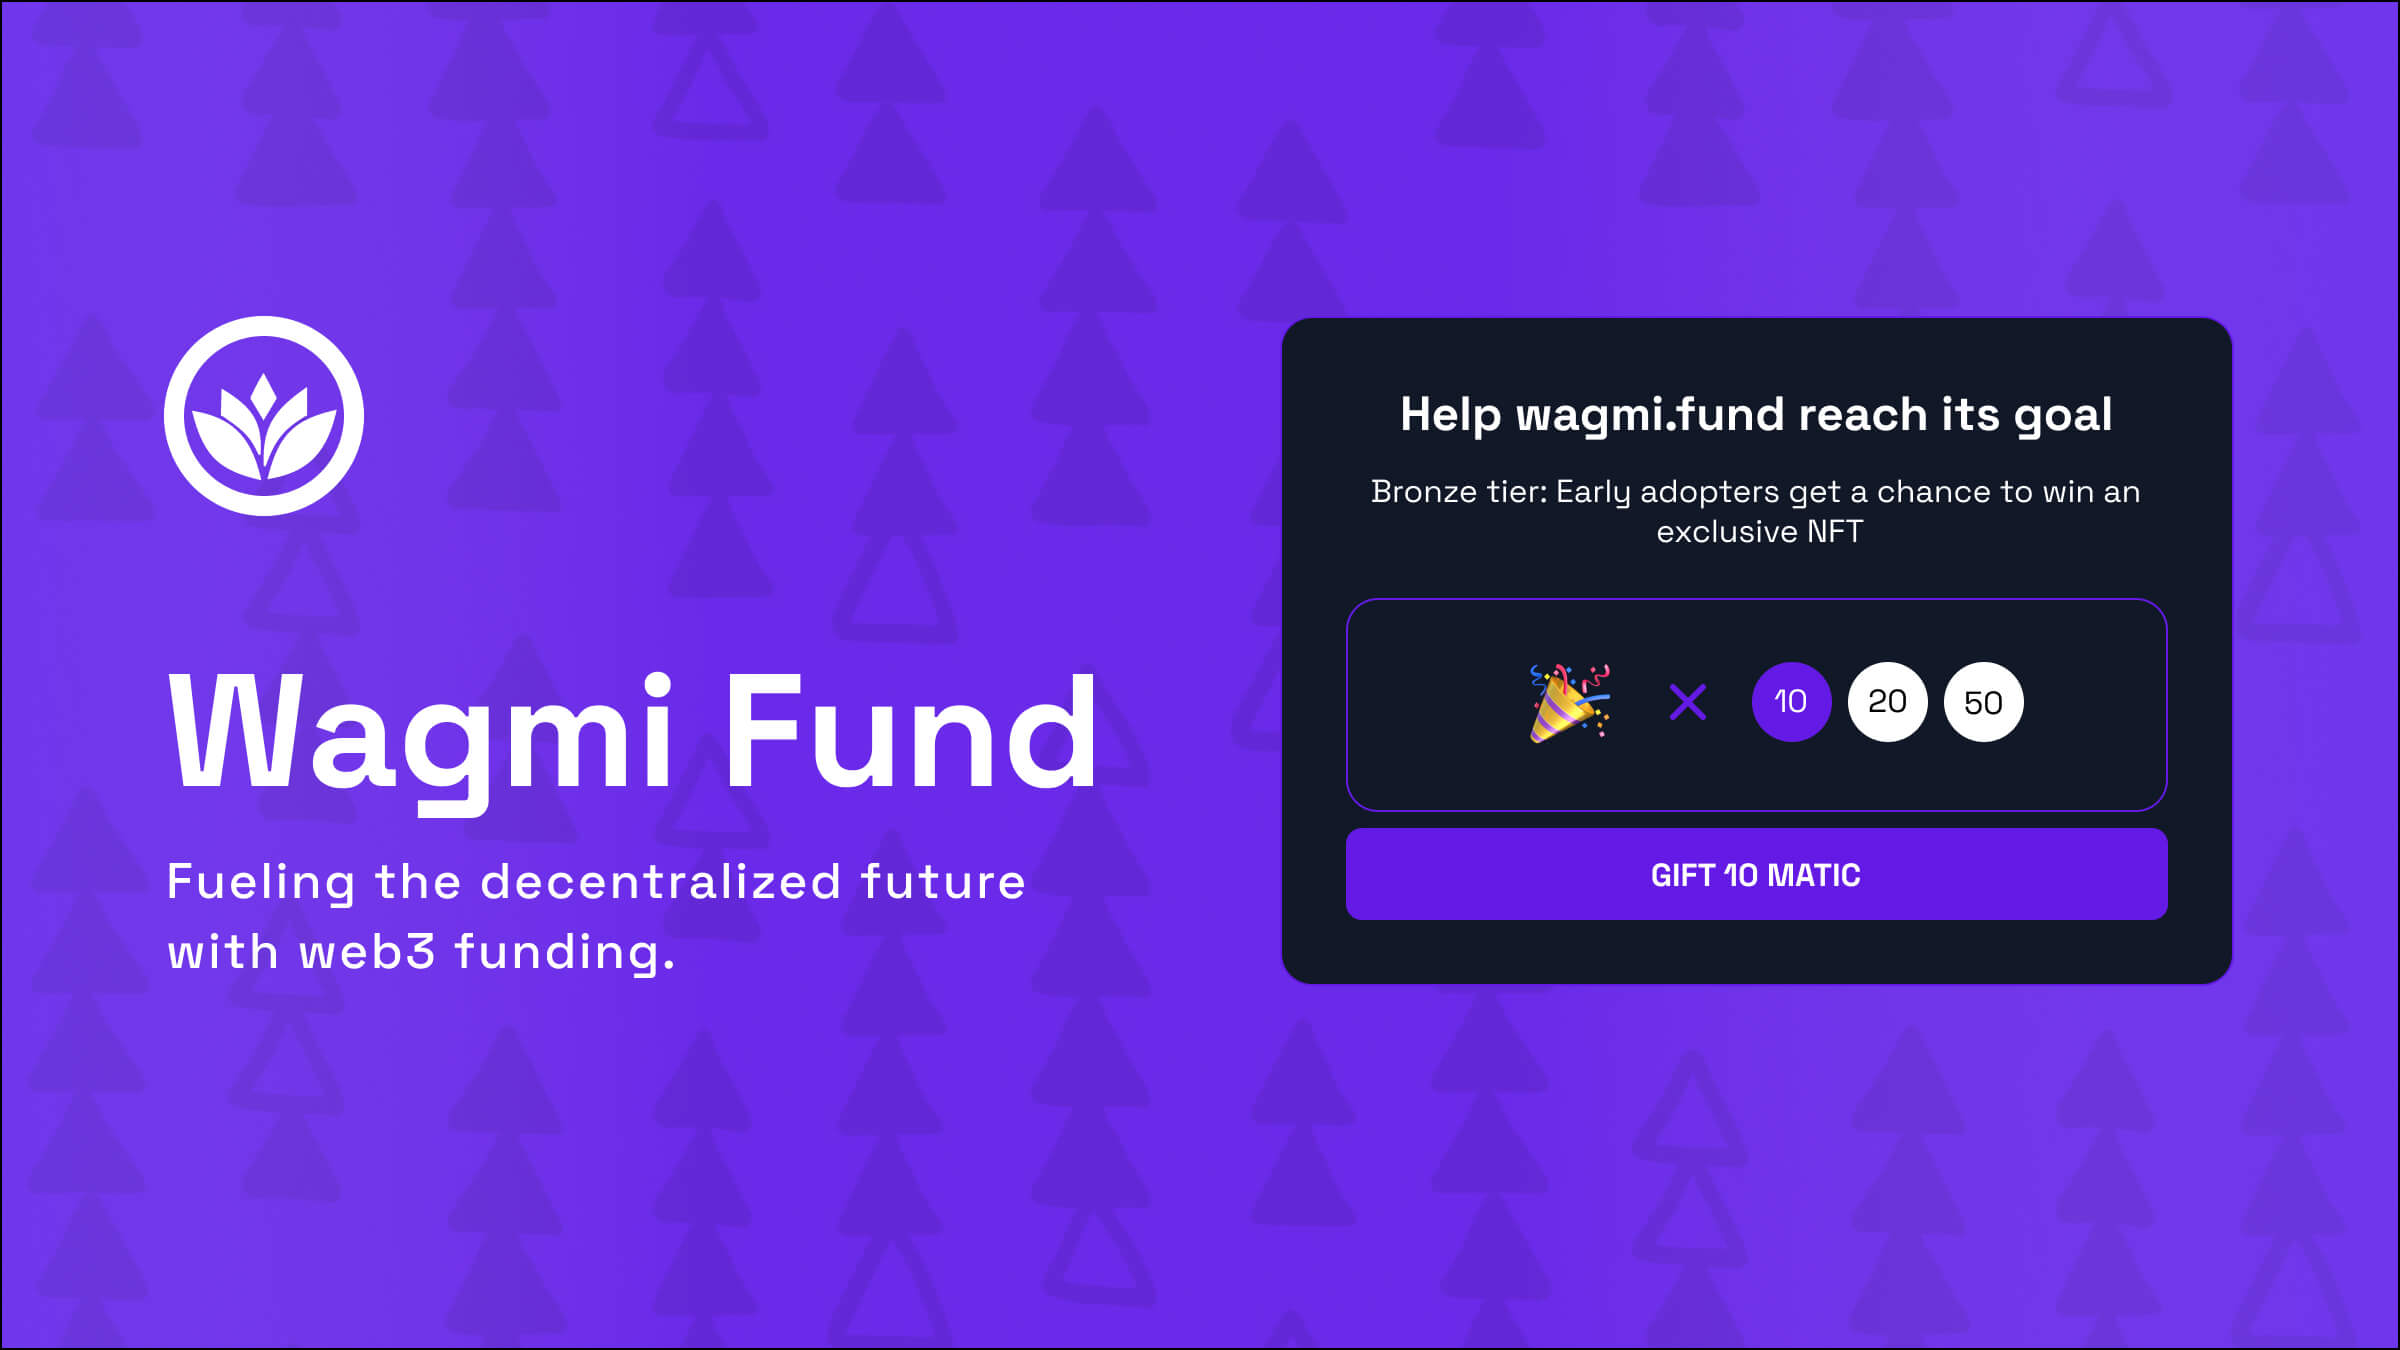
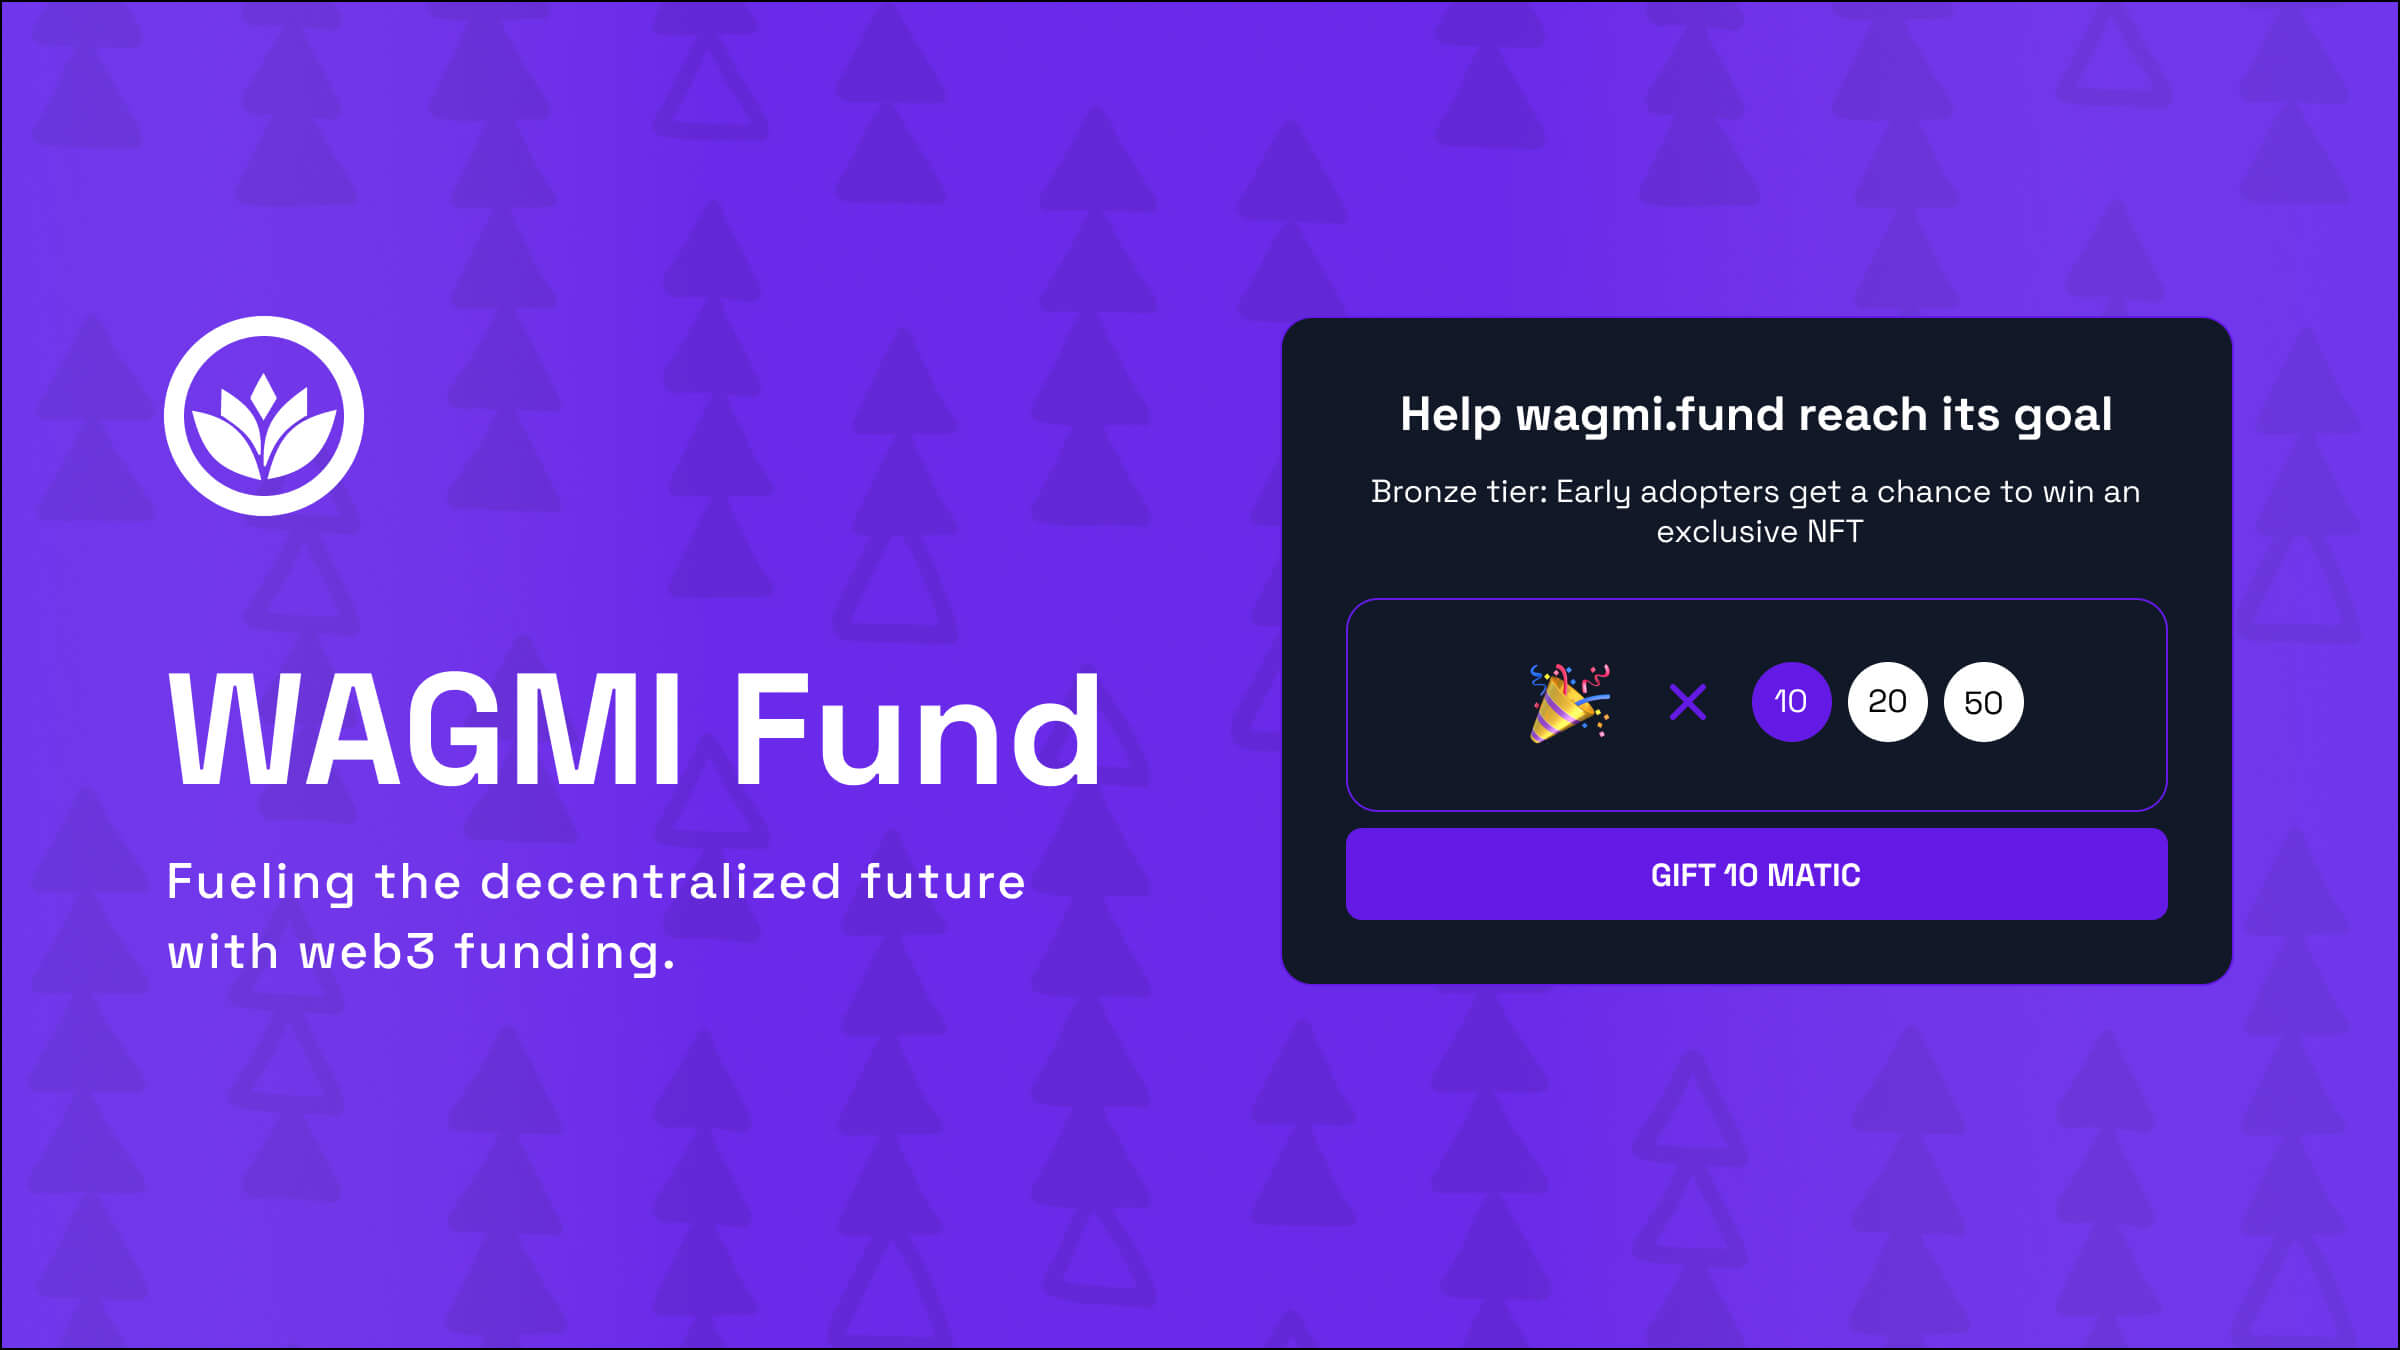
chore: change meta tags and try pre commit

Changed region(s): [[0.0938, 0.4978, 0.4688, 0.6222]]

diff --git a/pages/_document.tsx b/pages/_document.tsx
@@ -4,28 +4,28 @@ import { Analytics } from "@vercel/analytics/react";
 export default function Document() {
   return (
     <Html>
-      <title>wagmifund</title>
-      <meta name="title" content="wagmifund" />
+      <title>WAGMI Fund</title>
+      <meta name="title" content="WAGMI Fund" />
       <meta
         name="description"
-        content="Decentralized crowd funding platform, built on Lens Protocol 🌿"
+        content="Fueling the decentralized future with web3 funding 💰"
       />
 
       <meta property="og:type" content="website" />
       <meta property="og:url" content="https://testnet.wagmi.fund/" />
-      <meta property="og:title" content="wagmifund" />
+      <meta property="og:title" content="WAGMI Fund" />
       <meta
         property="og:description"
-        content="Decentralized crowd funding platform, built on Lens Protocol 🌿"
+        content="Fueling the decentralized future with web3 funding 💰"
       />
       <meta property="og:image" content="/og.jpeg" />
 
       <meta property="twitter:card" content="summary_large_image" />
       <meta property="twitter:url" content="https://testnet.wagmi.fund/" />
-      <meta property="twitter:title" content="wagmifund" />
+      <meta property="twitter:title" content="WAGMI Fund" />
       <meta
         property="twitter:description"
-        content="Decentralized crowd funding platform, built on Lens Protocol 🌿"
+        content="Fueling the decentralized future with web3 funding 💰"
       />
       <meta property="twitter:image" content="/og.jpeg" />
       <link rel="preconnect" href="https://fonts.googleapis.com" />

diff --git a/src/components/MetaTags/index.tsx b/src/components/MetaTags/index.tsx
@@ -9,7 +9,7 @@ interface Props {
 }
 
 const MetaTags: FC<Props> = ({
-  title = "Wagmi Fund",
+  title = "WAGMI Fund",
   description = DESCRIPTION,
 }) => {
   return (
@@ -39,7 +39,7 @@ const MetaTags: FC<Props> = ({
       <meta property="twitter:image:src" content="/og.jpeg" />
       <meta property="twitter:image:width" content="400" />
       <meta property="twitter:image:height" content="400" />
-      <meta property="twitter:creator" content="wagmifund" />
+      <meta property="twitter:creator" content="WAGMI Fund" />
     </Head>
   );
 };

diff --git a/src/utils/constants.ts b/src/utils/constants.ts
@@ -24,7 +24,7 @@ export const RELAY_ON = "false";
 // Application
 export const APP_NAME = "wagmifund";
 export const DESCRIPTION =
-  "Decentralized crowd funding platform, built on Lens Protocol 🌿";
+  "Fueling the decentralized future with web3 funding 💰";
 export const APP_VERSION = packageJson.version;
 
 // Bundlr
